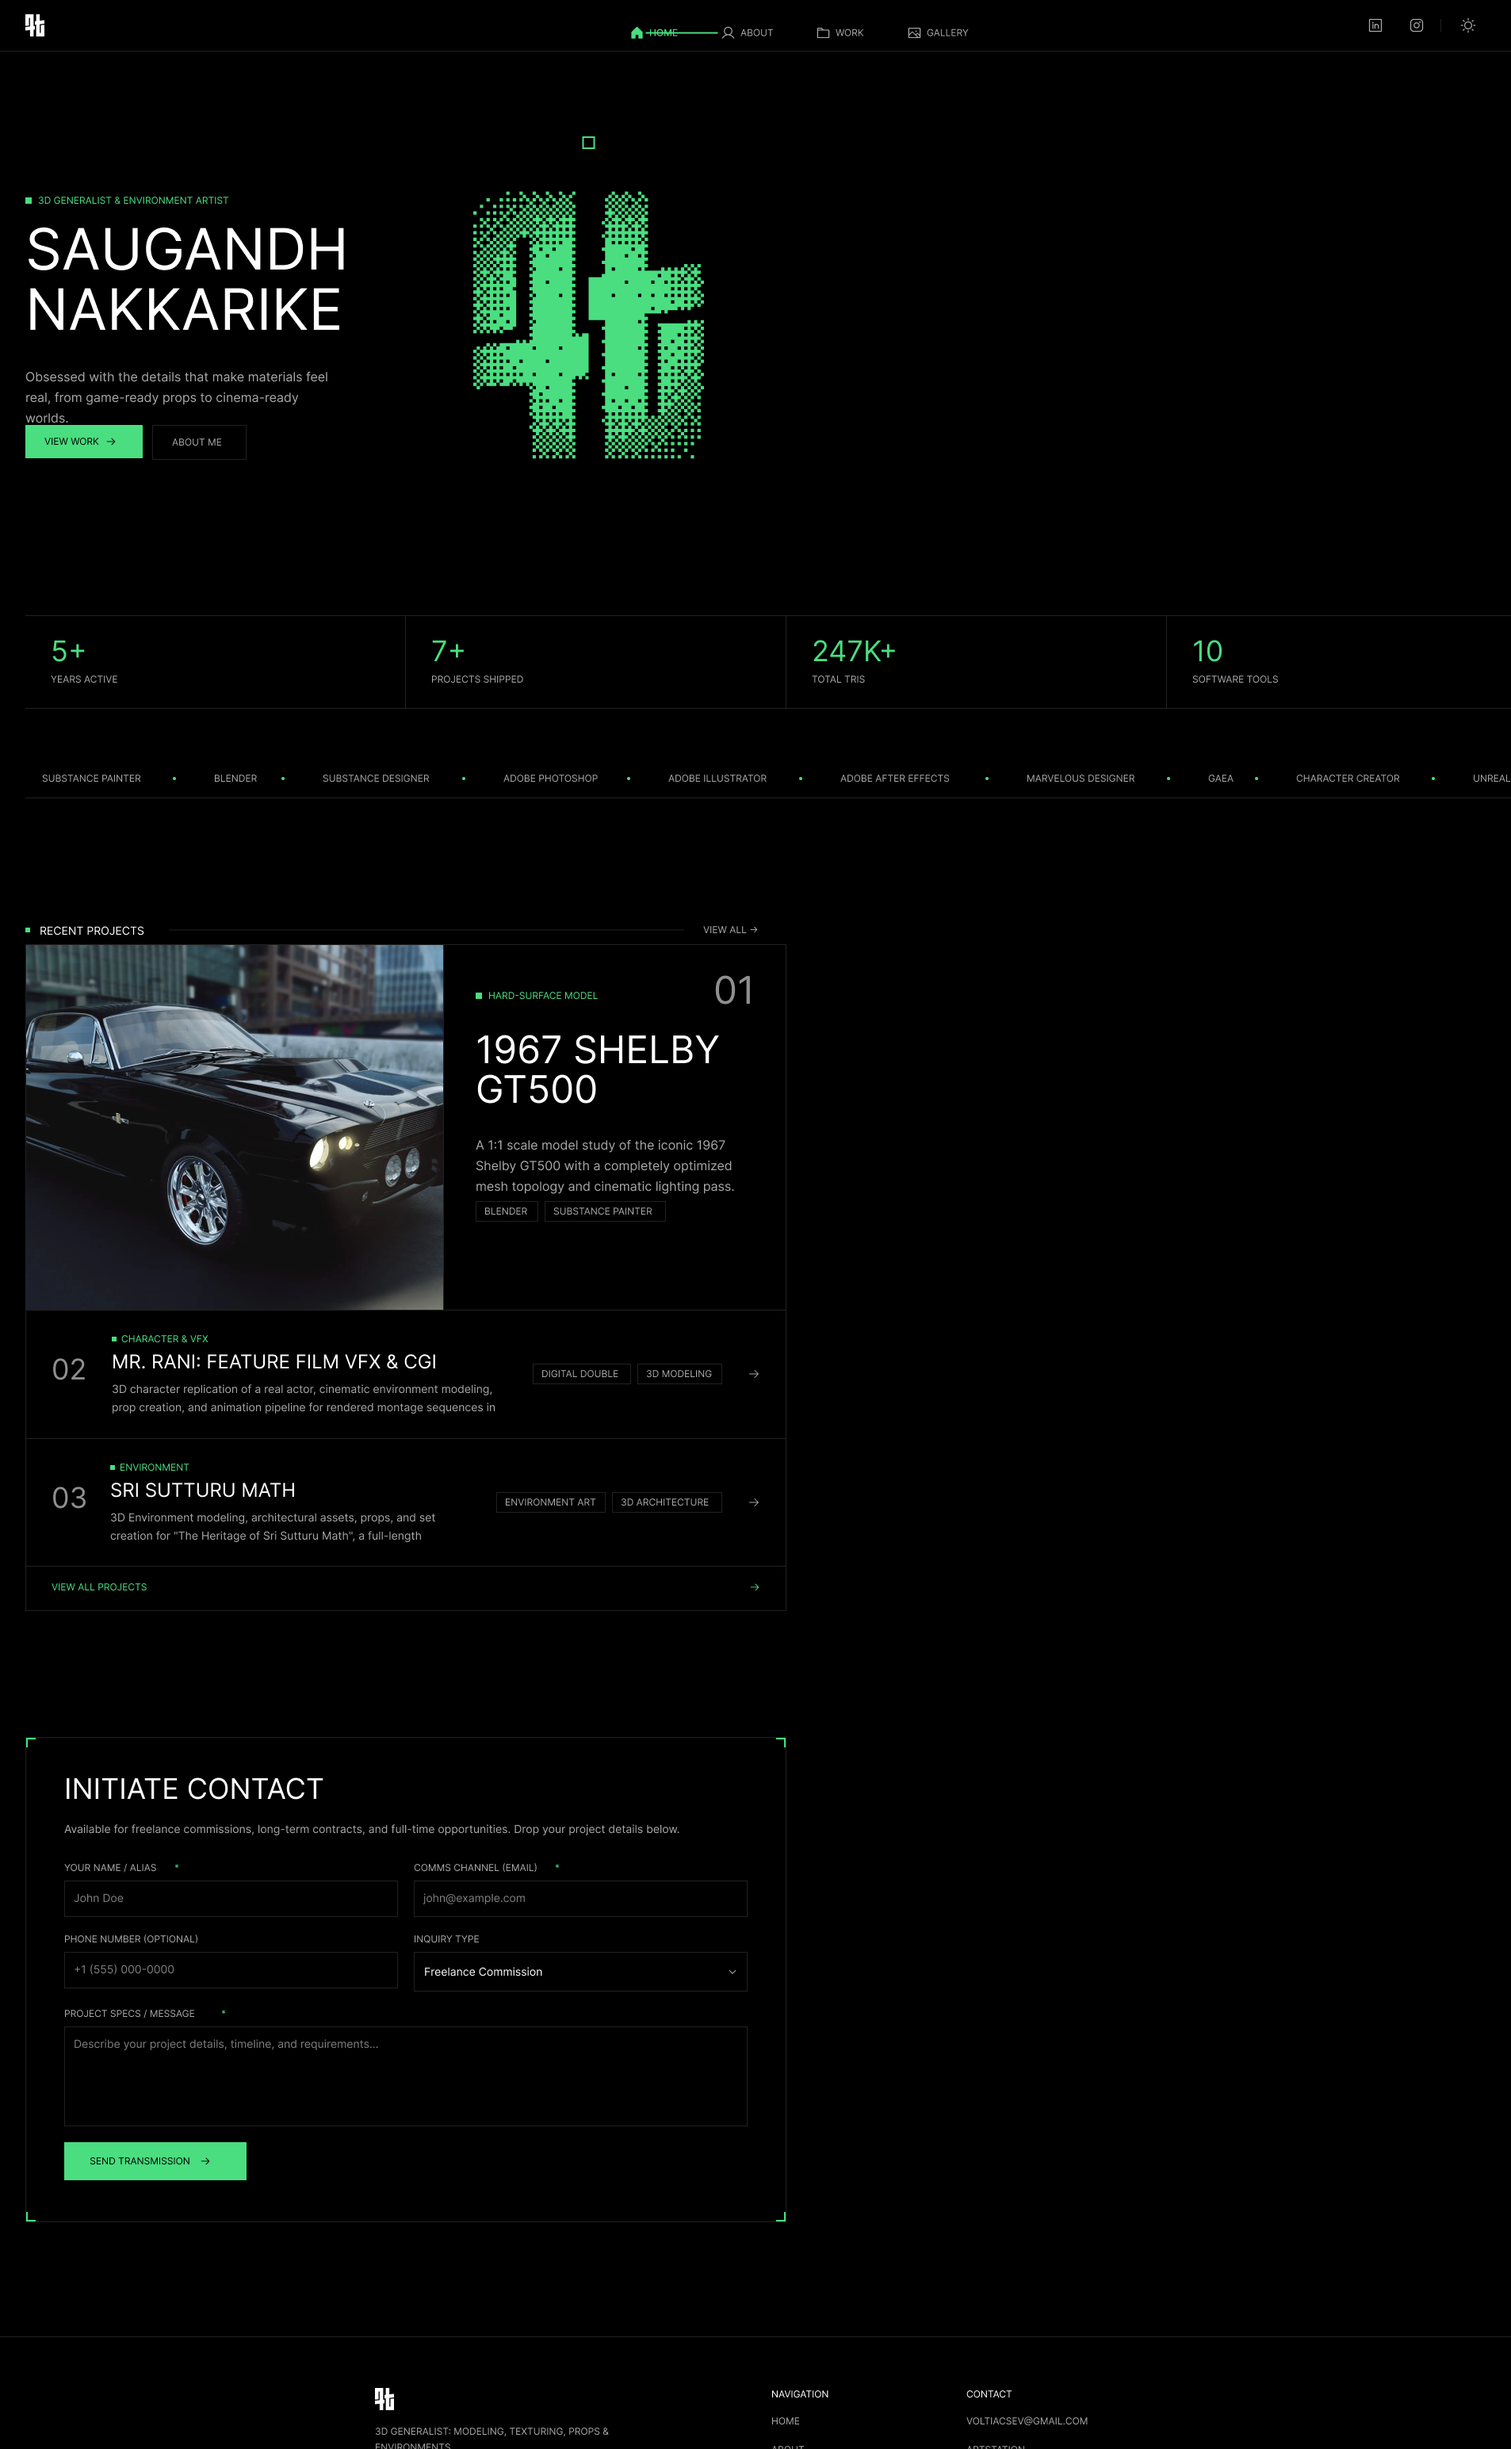
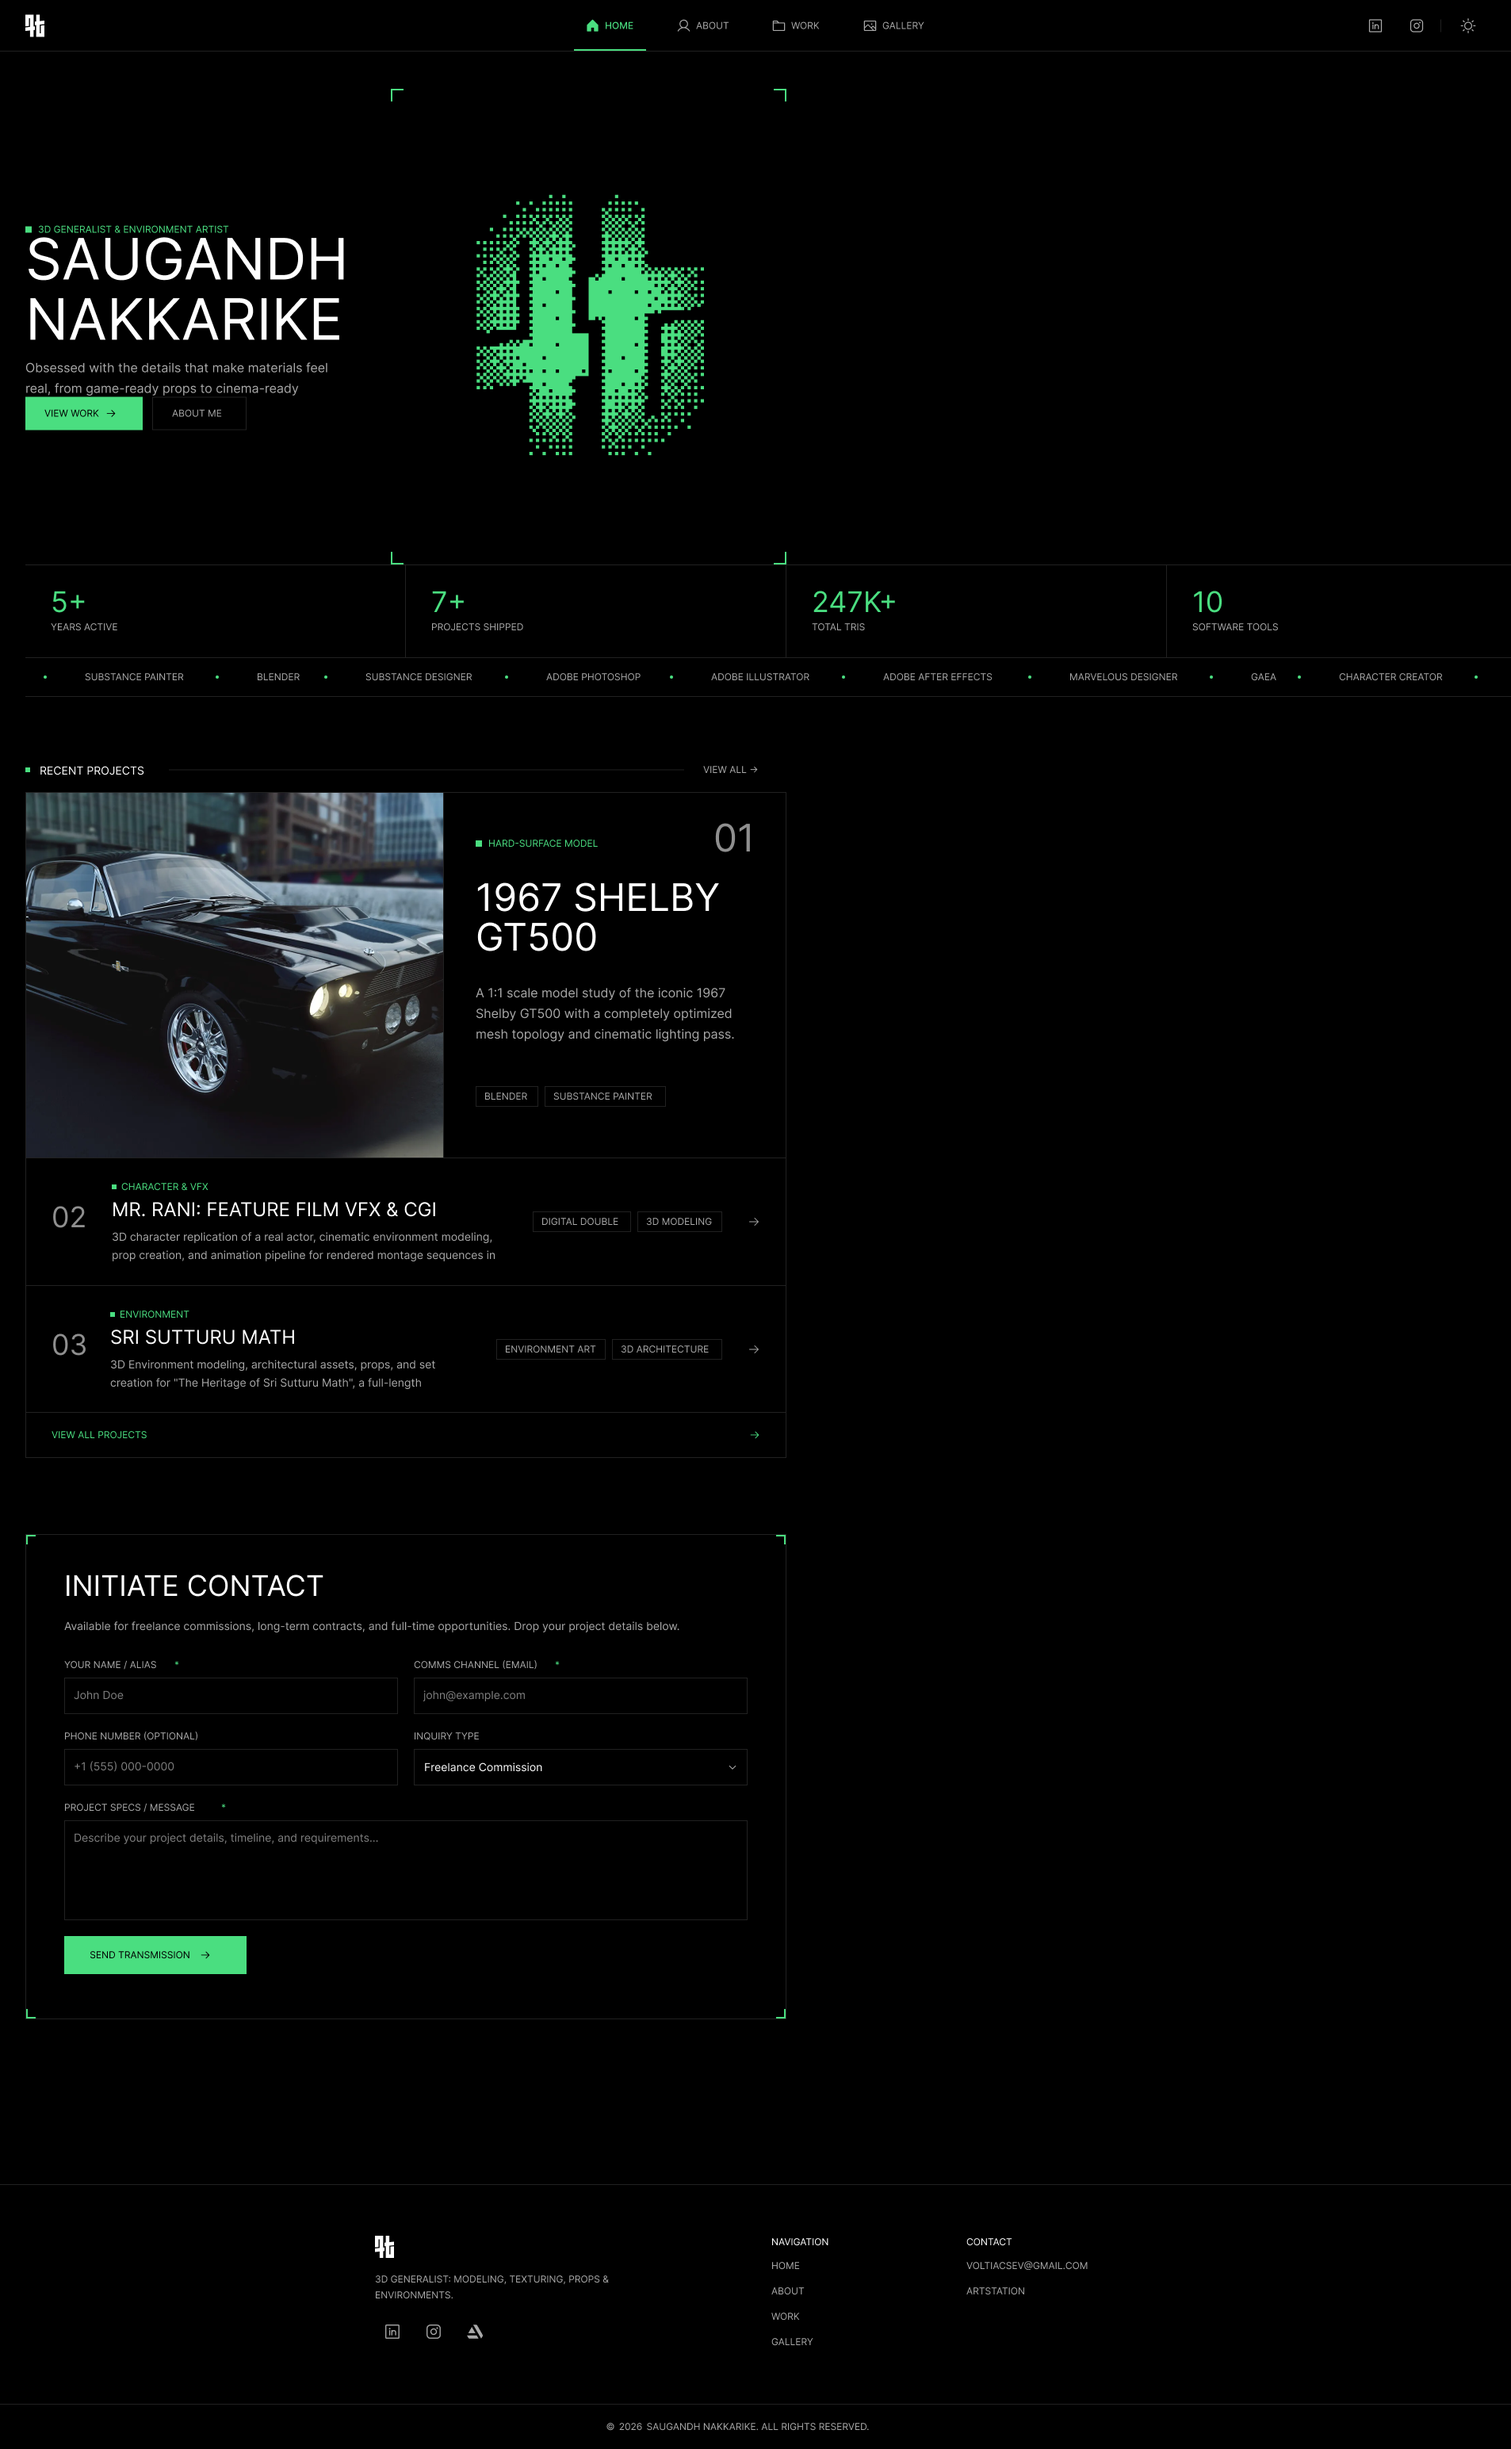
Fixes

diff --git a/figma-plugin/code.js b/figma-plugin/code.js
@@ -54,22 +54,56 @@ function parseColor(str) {
     }
   }
 
+  function oklabToRgb(L, a, b) {
+    const l_ = L + 0.3963377774 * a + 0.2158037573 * b;
+    const m_ = L - 0.1055613458 * a - 0.0638541728 * b;
+    const s_ = L - 0.0894841775 * a - 1.2914855480 * b;
+    const l = l_ * l_ * l_;
+    const m = m_ * m_ * m_;
+    const s = s_ * s_ * s_;
+    let r = +4.0767416621 * l - 3.3077115913 * m + 0.2309699292 * s;
+    let g = -1.2684380046 * l + 2.6097574011 * m - 0.3413193965 * s;
+    let b_ = -0.0041960863 * l - 0.7034186147 * m + 1.7076147010 * s;
+    r = r > 0.0031308 ? 1.055 * Math.pow(r, 1/2.4) - 0.055 : 12.92 * r;
+    g = g > 0.0031308 ? 1.055 * Math.pow(g, 1/2.4) - 0.055 : 12.92 * g;
+    b_ = b_ > 0.0031308 ? 1.055 * Math.pow(b_, 1/2.4) - 0.055 : 12.92 * b_;
+    return { r: Math.max(0, Math.min(1, r)), g: Math.max(0, Math.min(1, g)), b: Math.max(0, Math.min(1, b_)) };
+  }
+
   if (str.startsWith("oklch(")) {
     const m = str.match(/oklch\(([^)]+)\)/);
     if (m) {
       const parts = m[1].replace(/[\/%]/g, " ").split(/[\s,]+/).filter(Boolean).map(parseFloat);
-      if (parts.length > 0 && !isNaN(parts[0])) {
-        const l = parts[0] > 1 ? parts[0]/100 : parts[0];
-        return { color: { r: l, g: l, b: l }, opacity: parts.length > 3 ? parts[3] : 1 };
+      if (parts.length >= 3 && !isNaN(parts[0])) {
+        const L = parts[0] > 1 ? parts[0]/100 : parts[0];
+        const C = parts[1];
+        const hRad = parts[2] * Math.PI / 180;
+        const a = C * Math.cos(hRad);
+        const b = C * Math.sin(hRad);
+        return { color: oklabToRgb(L, a, b), opacity: parts.length > 3 ? parts[3] : 1 };
       }
     }
   }
 
-  if (str.startsWith("lab(") || str.startsWith("oklab(")) {
-    const m = str.match(/(?:lab|oklab)\(([^)]+)\)/);
+  if (str.startsWith("oklab(")) {
+    const m = str.match(/oklab\(([^)]+)\)/);
+    if (m) {
+      const parts = m[1].replace(/[\/%]/g, " ").split(/[\s,]+/).filter(Boolean).map(parseFloat);
+      if (parts.length >= 3 && !isNaN(parts[0])) {
+        const L = parts[0] > 1 ? parts[0]/100 : parts[0];
+        const a = parts[1];
+        const b = parts[2];
+        return { color: oklabToRgb(L, a, b), opacity: parts.length > 3 ? parts[3] : 1 };
+      }
+    }
+  }
+
+  if (str.startsWith("lab(")) {
+    const m = str.match(/lab\(([^)]+)\)/);
     if (m) {
       const parts = m[1].replace(/[\/%]/g, " ").split(/[\s,]+/).filter(Boolean).map(parseFloat);
       if (parts.length > 0 && !isNaN(parts[0])) {
+        // Fallback for standard lab to grayscale (as true Lab to sRGB is complex)
         const l = parts[0] > 1 ? parts[0]/100 : parts[0];
         return { color: { r: l, g: l, b: l }, opacity: parts.length > 3 ? parts[3] : 1 };
       }
@@ -96,22 +130,19 @@ function px(str) {
   return isNaN(n) ? 0 : n;
 }
 
-function alignPrimary(justifyContent) {
-  switch (justifyContent) {
-    case "center": return "CENTER";
-    case "flex-end": return "MAX";
-    case "space-between": return "SPACE_BETWEEN";
-    default: return "MIN";
-  }
+function alignPrimary(val) {
+  if (!val) return "MIN";
+  if (val.includes("center")) return "CENTER";
+  if (val.includes("end")) return "MAX";
+  if (val.includes("space-between")) return "SPACE_BETWEEN";
+  return "MIN";
 }
 
-function alignCounter(alignItems) {
-  switch (alignItems) {
-    case "center": return "CENTER";
-    case "flex-end": return "MAX";
-    case "baseline": return "MIN";
-    default: return "MIN";
-  }
+function alignCounter(val) {
+  if (!val) return "MIN";
+  if (val.includes("center")) return "CENTER";
+  if (val.includes("end")) return "MAX";
+  return "MIN";
 }
 
 function fontStyleFor(fontWeight) {
@@ -210,9 +241,23 @@ function applyCommonStyle(node, styles) {
   }
 
   const opacity = parseFloat(styles.opacity);
-  if (!isNaN(opacity) && "opacity" in node) node.opacity = opacity;
+  // We ignore opacity 0 because it's almost always a scroll animation (e.g. GSAP/AOS) 
+  // and users want to see the elements in their design file.
+  if (!isNaN(opacity) && opacity > 0 && "opacity" in node) node.opacity = opacity;
 
   applyBoxShadow(node, styles.boxShadow);
+}
+
+function parseLinearGradient(bgStr) {
+  // Very basic universal parser for linear-gradient
+  // Handles: linear-gradient(90deg, red, blue) or linear-gradient(to right, #f00 0%, #00f 100%)
+  if (!bgStr || !bgStr.includes('linear-gradient')) return null;
+  
+  // This is a complex problem in regex, we'll extract just a basic 2-color gradient for now
+  // as full CSS gradient parsing requires an AST parser (like css-gradient-parser).
+  // For V1 generic compatibility, we just return null to avoid breaking,
+  // or we can implement a basic fallback if needed.
+  return null;
 }
 
 // domNode: captured node. originRect: the rect this node's x/y should be measured against
@@ -338,7 +383,7 @@ async function buildNode(domNode, originRect, bump) {
 
   applyCommonStyle(frame, style);
   
-  const children = domNode.children || [];
+  const children = domNode.children ? [...domNode.children] : [];
   
   let wantsAutoLayout = false;
   if (style.display === "flex" || style.display === "inline-flex") {
@@ -349,51 +394,49 @@ async function buildNode(domNode, originRect, bump) {
   if (wantsAutoLayout) {
     const flowChildren = children.filter(c => !(c.styles && (c.styles.position === "absolute" || c.styles.position === "fixed")));
 
-    if (frame.layoutMode === "VERTICAL" && flowChildren.length > 1) {
-      const gapY = flowChildren[1].rect.y - (flowChildren[0].rect.y + flowChildren[0].rect.height);
-      frame.itemSpacing = Math.max(gapY, px(style.gap) || 0, 0);
-    } else {
-      frame.itemSpacing = Math.max(px(style.gap), 0);
-    }
+    frame.itemSpacing = Math.max(px(style.gap) || 0, 0);
 
-    if (flowChildren.length > 0) {
-      let minY = Infinity, maxY = -Infinity;
-      for (const child of flowChildren) {
-        if (child.rect.y < minY) minY = child.rect.y;
-        if (child.rect.y + child.rect.height > maxY) maxY = child.rect.y + child.rect.height;
-      }
-      frame.paddingTop = Math.max(minY - domNode.rect.y, 0);
-      frame.paddingBottom = Math.max((domNode.rect.y + domNode.rect.height) - maxY, 0);
-    } else {
-      frame.paddingTop = px(style.paddingTop);
-      frame.paddingBottom = px(style.paddingBottom);
-    }
-
+    frame.paddingTop = px(style.paddingTop);
+    frame.paddingBottom = px(style.paddingBottom);
     frame.paddingLeft = px(style.paddingLeft);
     frame.paddingRight = px(style.paddingRight);
 
     frame.primaryAxisAlignItems = alignPrimary(style.justifyContent);
     frame.counterAxisAlignItems = alignCounter(style.alignItems);
     
-    if (frame.layoutMode === "VERTICAL") {
-      frame.primaryAxisSizingMode = "AUTO";
-      frame.counterAxisSizingMode = "FIXED";
-    } else {
-      frame.primaryAxisSizingMode = "FIXED";
-      frame.counterAxisSizingMode = "AUTO";
+    if (style.flexWrap === "wrap") {
+      frame.layoutWrap = "WRAP";
     }
+    
+    frame.primaryAxisSizingMode = "FIXED";
+    frame.counterAxisSizingMode = "FIXED";
   } else {
     frame.layoutMode = "NONE";
   }
 
   for (const child of children) {
     const childNode = await buildNode(child, domNode.rect, bump);
+    
+    const origX = childNode.x;
+    const origY = childNode.y;
+    
     frame.appendChild(childNode);
     
-    if (wantsAutoLayout && child.styles && (child.styles.position === "absolute" || child.styles.position === "fixed")) {
-      try {
-        childNode.layoutPositioning = "ABSOLUTE";
-      } catch(e) {}
+    if (wantsAutoLayout && child.styles) {
+      if (child.styles.position === "absolute" || child.styles.position === "fixed") {
+        try {
+          childNode.layoutPositioning = "ABSOLUTE";
+          childNode.x = origX;
+          childNode.y = origY;
+        } catch(e) {}
+      } else {
+        const flexGrow = parseFloat(child.styles.flexGrow);
+        if (!isNaN(flexGrow) && flexGrow > 0) {
+          try {
+            childNode.layoutGrow = 1;
+          } catch(e) {}
+        }
+      }
     }
   }
 

diff --git a/chrome-extension/content.js b/chrome-extension/content.js
@@ -4,8 +4,8 @@
 
 (() => {
   const STYLE_PROPS = [
-    "display", "flexDirection", "justifyContent", "alignItems", "gap",
-    "position", "color", "backgroundColor", "backgroundImage", "opacity",
+    "display", "flexDirection", "flexWrap", "justifyContent", "alignItems", "gap", "flexGrow",
+    "position", "color", "backgroundColor", "backgroundImage", "backgroundSize", "opacity",
     "fontSize", "fontWeight", "fontFamily", "lineHeight", "letterSpacing", "textAlign",
     "textTransform", "textDecoration",
     "borderTopLeftRadius", "borderTopRightRadius", "borderBottomLeftRadius", "borderBottomRightRadius",
@@ -51,6 +51,7 @@
     if (nodeCount > MAX_NODES) return null;
     if (el.nodeType !== 1) return null;
     if (SKIP_TAGS.has(el.tagName)) return null;
+    if (el.hasAttribute("data-figcopy-ignore")) return null;
 
     const computed = window.getComputedStyle(el);
     if (computed.display === "none" || computed.visibility === "hidden") return null;
@@ -215,6 +216,7 @@
   function ensureHoverBox() {
     if (hoverBox) return hoverBox;
     hoverBox = document.createElement("div");
+    hoverBox.setAttribute("data-figcopy-ignore", "true");
     hoverBox.style.cssText = `
       position: fixed; pointer-events: none; z-index: 2147483647;
       border: 2px solid #6E5CFF; background: rgba(110,92,255,0.12);
@@ -236,6 +238,7 @@
 
   function showToast(text) {
     const toast = document.createElement("div");
+    toast.setAttribute("data-figcopy-ignore", "true");
     toast.textContent = text;
     toast.style.cssText = `
       position: fixed; bottom: 24px; left: 50%; transform: translateX(-50%);
@@ -291,8 +294,55 @@
   // ---------- Message bridge to popup ----------
   chrome.runtime.onMessage.addListener((msg, sender, sendResponse) => {
     if (msg.type === "CAPTURE_FULL_PAGE") {
-      const data = captureElement(document.documentElement);
-      sendResponse({ ok: true, data });
+      (async () => {
+        showToast("Scrolling page to trigger animations...");
+        
+        // Auto-scroll to trigger IntersectionObservers
+        const scrollHeight = document.body.scrollHeight;
+        const viewportHeight = window.innerHeight;
+        
+        // Disable smooth scrolling temporarily to prevent mid-scroll captures
+        const origHtmlBehavior = document.documentElement.style.scrollBehavior;
+        const origBodyBehavior = document.body.style.scrollBehavior;
+        document.documentElement.style.scrollBehavior = 'auto';
+        document.body.style.scrollBehavior = 'auto';
+        
+        for (let y = 0; y < scrollHeight; y += viewportHeight / 2) {
+          window.scrollTo({ top: y, behavior: 'instant' });
+          await new Promise(r => setTimeout(r, 100)); // wait for GSAP triggers
+        }
+        
+        // Wait for final animations to finish
+        await new Promise(r => setTimeout(r, 1000));
+        
+        // Snap back to the top
+        window.scrollTo({ top: 0, behavior: 'instant' });
+        
+        // Force and wait until we are strictly at the top
+        let attempts = 0;
+        while (window.scrollY > 0 && attempts < 20) {
+          window.scrollTo({ top: 0, behavior: 'instant' });
+          await new Promise(r => setTimeout(r, 50));
+          attempts++;
+        }
+        
+        // Restore smooth scrolling
+        document.documentElement.style.scrollBehavior = origHtmlBehavior;
+        document.body.style.scrollBehavior = origBodyBehavior;
+
+        const data = captureElement(document.documentElement);
+        
+        // Write to clipboard here just in case popup closed
+        try {
+          await navigator.clipboard.writeText(JSON.stringify(data));
+          showToast("Copied full page layout — paste into Figma!");
+        } catch (e) {
+          showToast("Couldn't copy automatically — check console");
+          console.log(JSON.stringify(data));
+        }
+        
+        sendResponse({ ok: true, data });
+      })();
       return true;
     }
     if (msg.type === "START_PICKER") {
